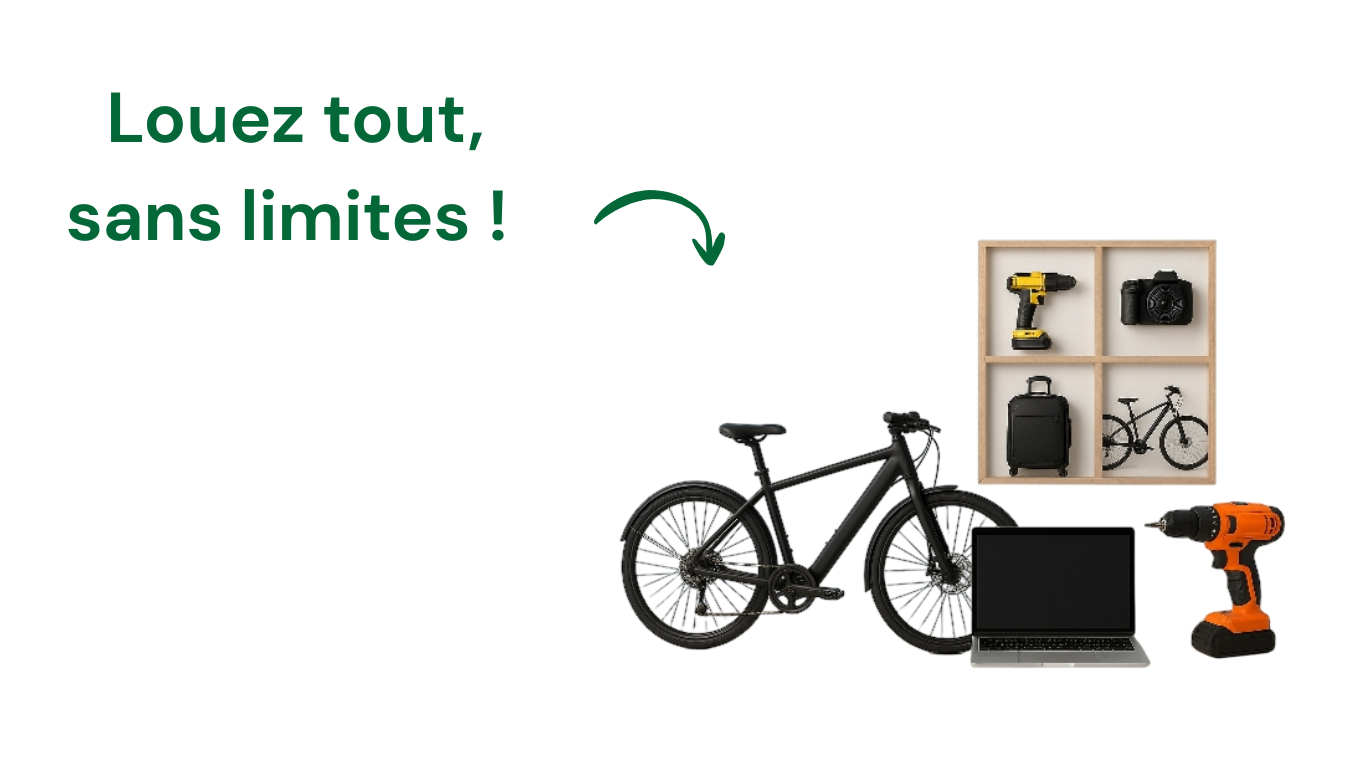
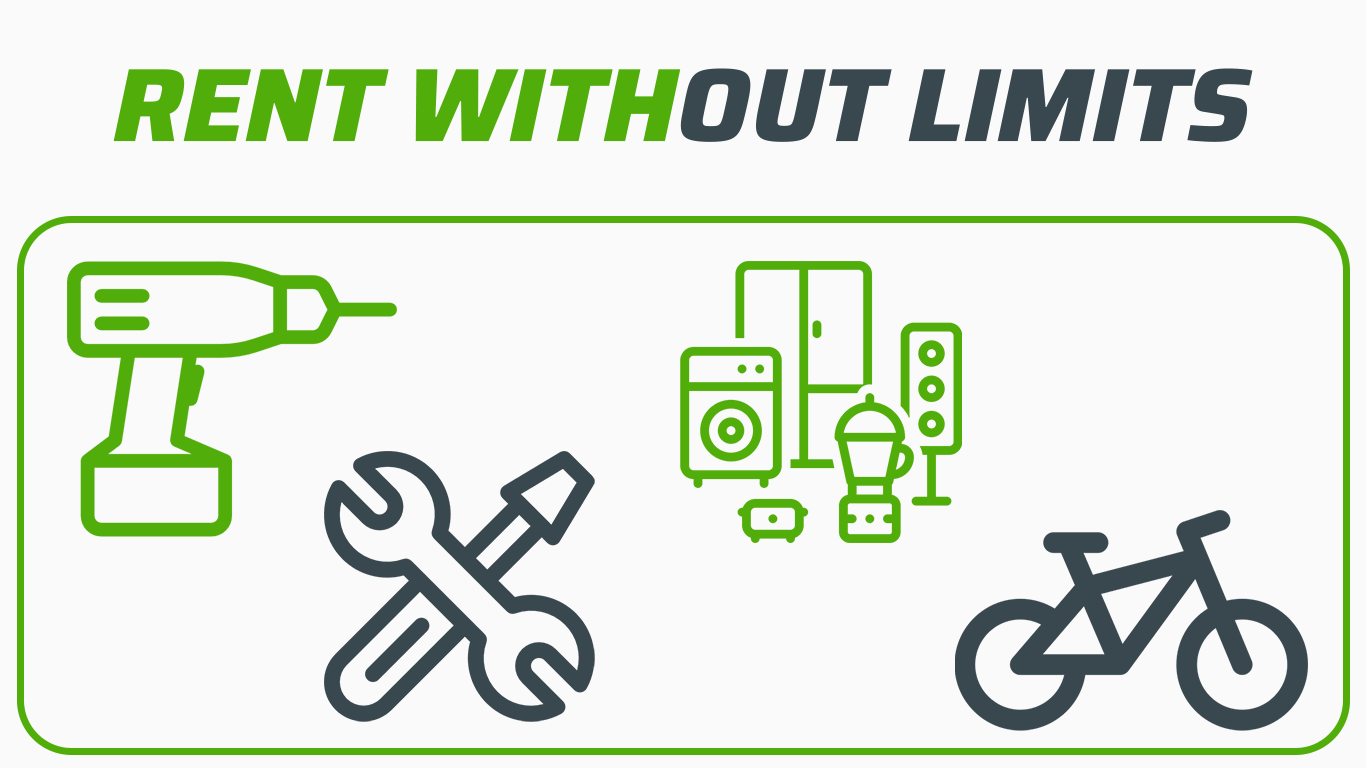
new index
Made a more proper index that represents more the application

Changed region(s): [[0.0, 0.25, 1.0, 1.0], [0.0615, 0.0625, 0.9224, 0.1875]]

diff --git a/new-style.css b/new-style.css
@@ -1,0 +1,138 @@
+/* Color Palette Variables */
+:root {
+    --primary-green: #158915;
+    --dark-grey: #374151;
+    --light-grey: #f4f4f4;
+    --white: #ffffff;
+    --hover-green: #106810;
+}
+
+* {
+    margin: 0;
+    padding: 0;
+    box-sizing: border-box;
+    font-family: 'Inter', 'Arial', sans-serif;
+}
+
+body {
+    background-color: var(--white);
+    color: var(--dark-grey);
+    line-height: 1.6;
+}
+
+.container {
+    max-width: 1200px;
+    margin: 0 auto;
+    padding: 0 20px;
+}
+
+/* Header & Nav Styles */
+header {
+    background: var(--white);
+    box-shadow: 0 2px 10px rgba(0,0,0,0.05);
+    padding: 10px 0;
+}
+
+nav {
+    display: flex;
+    align-items: center;
+    justify-content: space-between;
+}
+
+.main-logo {
+    height: 80px; /* Adjusted for better visibility */
+    width: auto;
+}
+
+.list-nav {
+    display: flex;
+    list-style: none;
+    gap: 40px;
+}
+
+.list-nav a {
+    text-decoration: none;
+    color: var(--dark-grey);
+    font-weight: 600;
+    transition: color 0.3s;
+}
+
+.list-nav a:hover {
+    color: #158915;
+}
+
+.user-pic {
+    height: 45px;
+    width: 45px;
+    border-radius: 50%;
+    border: 2px solid transparent;
+    transition: all 0.3s;
+}
+
+.user-pic:hover {
+    border-color: #158915;
+    transform: scale(1.05);
+}
+
+/* Hero Section Styles */
+.hero-section {
+    padding: 40px 0;
+}
+
+.hero-content {
+    position: relative;
+    border: 2px solid #e5e7eb;
+    border-radius: 24px;
+    overflow: hidden;
+    background: #fafafa;
+    text-align: center;
+}
+
+.hero-main-img {
+    max-width: 100%;
+    height: auto;
+    padding: 20px;
+}
+
+.hero-cta {
+    padding: 40px 0;
+    display: flex;
+    flex-direction: column;
+    align-items: center;
+    gap: 20px;
+}
+
+.hero-btn {
+    background-color: #158915;
+    color: white;
+    border: none;
+    padding: 18px 45px;
+    font-size: 1.2rem;
+    font-weight: 700;
+    border-radius: 50px;
+    cursor: pointer;
+    transition: background 0.3s, transform 0.2s;
+    box-shadow: 0 4px 15px rgba(118, 188, 33, 0.3);
+}
+
+.hero-btn:hover {
+    background-color: #106810;
+    transform: translateY(-2px);
+}
+
+.hero-p {
+    font-size: 1.1rem;
+    color: var(--dark-grey);
+}
+
+.brand-text {
+    color: #158915;
+    font-weight: bold;
+}
+
+footer {
+    text-align: center;
+    padding: 40px;
+    color: #9ca3af;
+    font-size: 0.9rem;
+}

diff --git a/new-index.html b/new-index.html
@@ -1,0 +1,57 @@
+<!DOCTYPE html>
+<head>
+    <meta charset="UTF-8">
+    <meta name="viewport" content="width=device-width, initial-scale=1.0">
+    <link href='https://fonts.googleapis.com/css?family=Inter' rel='stylesheet'>
+    <link rel="stylesheet" href="new-style.css">
+    <title>Sahla | Rent Without Limit</title>
+</head>
+<body>
+
+<header>
+    <nav class="container">
+        <div class="logo-area">
+            <img src="./Assets/logo-sahla-webapp-text-bold.png" alt="Sahla Logo" class="main-logo">
+        </div>
+        
+        <ul class="list-nav">
+            <li><a href="new-index.html">Home</a></li>
+            <li><a href="#">Contact Us</a></li>
+            <li><a href="#">About</a></li>
+        </ul>
+
+        <div class="user-area">
+            <a href="login_register_test_javascript.html">
+                <img src="./Assets/utilisateur.png" alt="Login" class="user-pic">
+            </a>
+        </div>
+    </nav>
+</header>
+
+<main>
+    <section class="hero-section">
+        <div class="container hero-container">
+            <div class="hero-content">
+                <img src="./Assets/Sahla-hero.png" alt="Rental Items" class="hero-main-img">
+                
+                <div class="hero-cta">
+                    <button class="hero-btn">Discover</button>
+                    <p class="hero-p">
+                        Discover All The Options Of Rent Available At 
+                        <span class="brand-text">SAHLA</span>
+                    </p>
+                </div>
+            </div>
+        </div>
+    </section>
+
+    <section class="second-hero">
+        </section>
+</main>
+
+<footer>
+    <p>2026 &copy; Made With ❤ By SAHLA TEAM</p>
+</footer>
+
+</body>
+</html>

diff --git a/style_login_register_test_javascript.css b/style_login_register_test_javascript.css
@@ -19,6 +19,7 @@
 /* --- General Page Setup --- */
 body { 
     background-color: #f8faf8; /* Light background */
+    font-family: 'Inter', 'Arial', sans-serif;
     min-height: 100vh;
     display: flex;
     flex-direction: column; /* Stack container and footer vertically */
